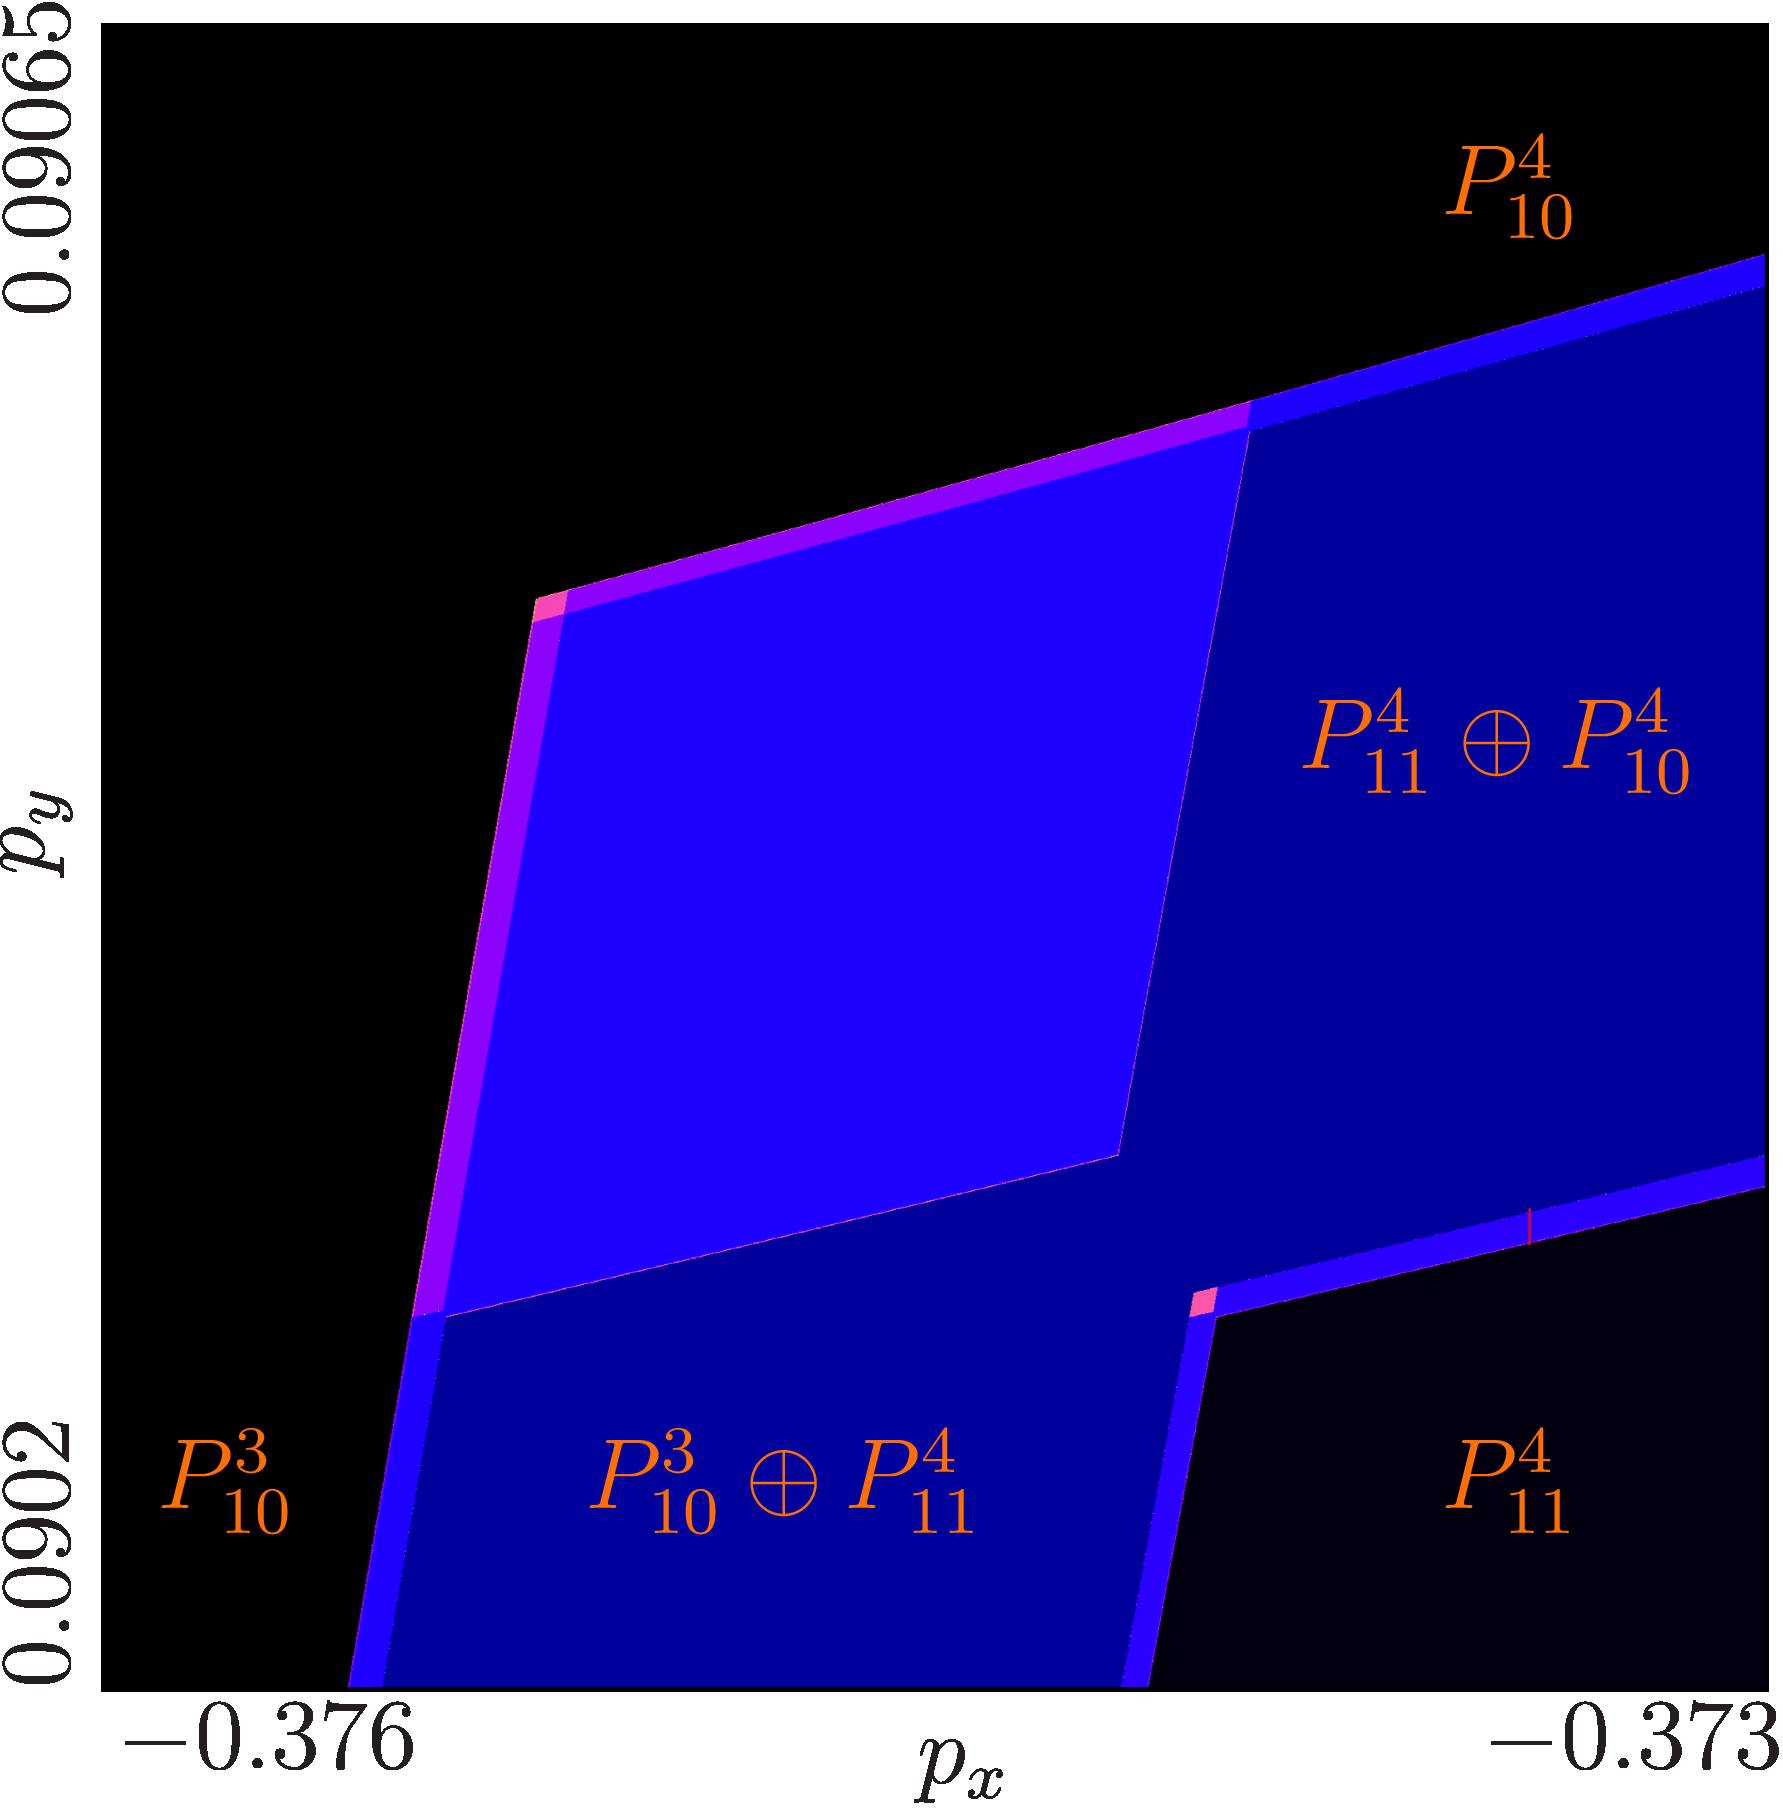
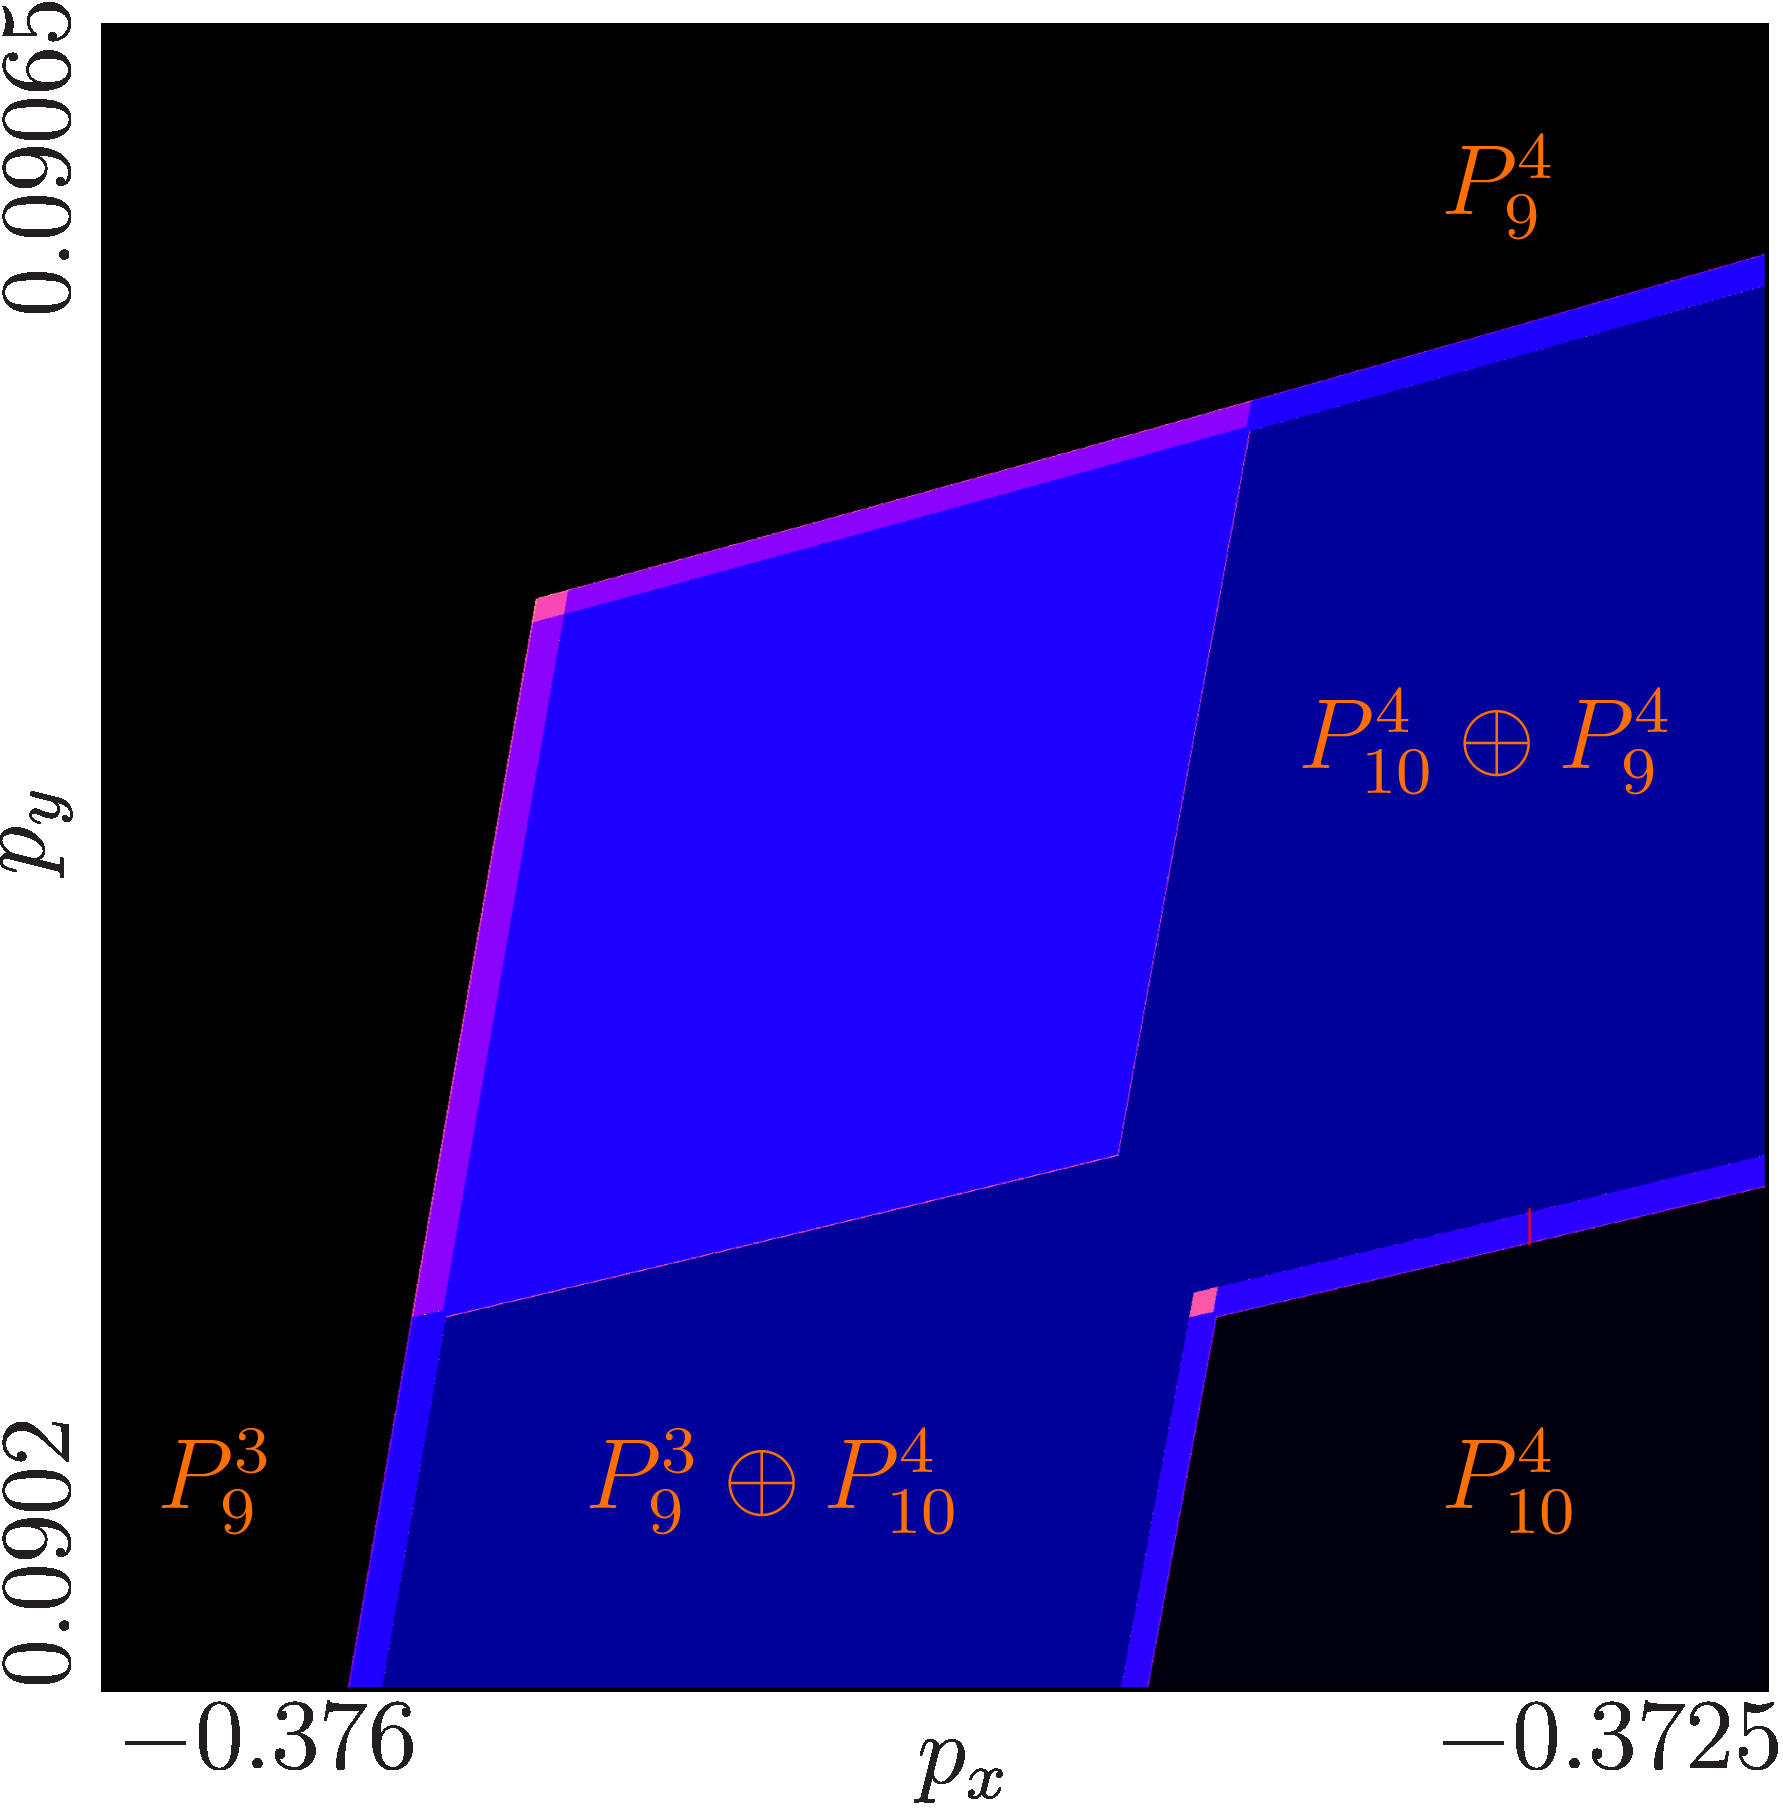
write about what happens when

diff --git a/Report/Sections/70_Adding/15_0_halved_motivation.tex b/Report/Sections/70_Adding/15_0_halved_motivation.tex
@@ -9,7 +9,11 @@
     \subfloat[The halved model]{
         \includegraphics[width=.4 \textwidth]{63_MinimalRepr_Adding_Halved/2D_Period_1_Zoomed/result.png}
     }
-    \caption{2D period scans of the same model in two versions}
+    \caption{
+        2D period scans of a period adding regions of the same model in two different versions.
+        On the left, is the full version of the model and on the right, is the halved version of the model.
+        The red markers between the regions $P_{10}^4$ and $P_{10}^4 \oplus P_9^4$ in both pictures, is the parameter range used for the 1D scans in \Cref{fig:minrep.adding1.motivation.halved.1d.period}.
+    }
     \label{fig:minrep.adding1.corner.period}
 \end{figure}
 
@@ -22,7 +26,12 @@
     \subfloat[The halved model]{
         \includegraphics[width=.4 \textwidth]{63_MinimalRepr_Adding_Halved/1D_Period_1_add_hor_D1/result.png}
     }
-    \caption{1D period scans of the same model in two different versions. The parameter range is marked red in \Cref{fig:minrep.adding1.corner.period}}
+    \caption{
+        1D period scans of a period-adding cascade of the same model in two different versions.
+        On the left, is the full version of the model and on the right, is the halved version of the model.
+        The parameter range is the same in both models and is marked red in \Cref{fig:minrep.adding1.corner.period}.
+    }
+    \label{fig:minrep.adding1.motivation.halved.1d.period}
 \end{figure}
 
 Problems with \Cref{fig:minrep.adding1.motivation.halved.1d.period.full}:
@@ -45,20 +54,20 @@ This cycle manifests as $\sigma\rho = \A^5\B^4\C^6\D^4\A^6\B^4\C^5\D^4\A^6\B^4\C
 We can get the manifestation of a cycle from the halved system in the full system by ``unrolling'' the cycle.
 For this, we write down the cycle of the halved model three times in a row.
 For our cycle $\sigma\rho$ this would be $\L^6\R^4\L^6\R^4\L^5\R^4|\L^6\R^4\L^6\R^4\L^5\R^4|\L^6\R^4\L^6\R^4\L^5\R^4$.
-Then we make pairs on rotations until the next pair would start at the same point, the fisrt pair started in the original cycle.
+Then we make pairs on rotations until the next pair would start at the same point, the first pair started in the original cycle.
 This step has to be repeated with every rotation of the original cycle as the starting position once.
 For the first iteration, we start with the first rotation.
 In our example, we would get the pairs $\L^6\R^4\L^6\R^4$, $\L^5\R^4\L^6\R^5$, and $\L^6\R^4\L^5\R^4$.
 Here we stop, because the next pair would start at the beginning of the original cycle in the halved model.
 For each pair, we replace the first $\L$ by $\A$, the first $\R$ by $\B$, the second $\L$ by $\C$, and the second $\R$ by $\D$ and put them toghether again.
-In our example we get $\A^6\B^4\C^6\D^4\A^5\B^4\C^6\D^4\A^6\B^4\C^5\D^4$, which is exactly what we got in the simulation.
+In our example, we get $\A^6\B^4\C^6\D^4\A^5\B^4\C^6\D^4\A^6\B^4\C^5\D^4$, which is exactly what we got in the simulation.
 
 For the second iteration, we would get the pairs $\L^6\R^4\L^5\R^4$, $\L^6\R^4\L^6\R^4$, and $\L^5\R^4\L^6\R^4$.
 This results in $\A^6\B^4\C^5\D^4\A^6\B^4\C^6\D^4\A^5\B^4\C^6\D^4$, which is equivalent to the result of the last paragraph by rotating it one complete rotation in the full model.
 The third iteration also produces the same cycle rotated one time and is omitted here.
 
 The inverse, ``rolling'' is easier.
-We just write down the cycle in the full model, for example $\A^6\B^4\C^6\D^4$.
+We just write down the cycle in the full model, for example, $\A^6\B^4\C^6\D^4$.
 Then we replace $\A$ and $\C$ by $\L$, and $\B$ and $\D$ by $\R$.
 In our example, we get $\L^6\R^4\L^6\R^4$.
 Last, we need to remove redundancy.
@@ -68,7 +77,7 @@ In our example, the cycle repeats itself twice, so we remove one half and get th
 
 Now equipped with this tool, we can try to explain the cycle at $\sigma^2\rho$.
 \todo{
-1.        halved model adding
-2.        calculate manifestation
-3.        show it agrees with the observed reality
+    1. halved model adding
+    2. calculate manifestation
+    3. show it agrees with the observed reality
 }

diff --git a/Report/Sections/70_Adding/10_between_chains.tex b/Report/Sections/70_Adding/10_between_chains.tex
@@ -27,6 +27,32 @@ The meaning of these is explored in a later section, the next section will focus
     \label{fig:minrep.adding1.overview}
 \end{figure}
 
-\input{Sections/70_Adding/10_0_halved_motivation.tex}
+\subsubsection{What Happens on the Path to Period-adding?}
+
+\begin{enumerate}
+    \item \begin{itemize}
+              \item ``type A'' parameter regions stop overlapping with the ``type A'' period regions above them (lower period, same number of points on branches $f_\B$ and $f_\D$)
+              \item Point where boundaries cross. On the left: no overlap, period-adding. On the right: overlap
+              \item This point moves right, until no overlap exists anymore
+          \end{itemize}
+    \item \begin{itemize}
+              \item ``type A'' parameter regions start overlapping with the ``type A'' period regions above right them (same period)
+              \item Point where boundaries cross. On the left: overlap. On the right: no overlap, ``type B'' parameter region
+              \item This point moves right, until no ``type B'' parameter region exists anymore
+          \end{itemize}
+    \item \begin{itemize}
+              \item ``type A'' parameter regions stop overlapping with the ``type A'' parameter regions right to them (higher period, one more point on branches $f_\B$ and $f_\D$)
+              \item This seems to happen in an instant
+          \end{itemize}
+\end{enumerate}
+
+Timeline:
+On the parameter line outlined above, the processes happen as follows.
+First, the process (i) starts.
+While it is happening, the process (ii) starts and finishes, before (i) finishes.
+Lastly the process (iii) starts and finishes directly.
+After all that, process (i) is the last to complete.
+
 \input{Sections/70_Adding/11_disapp_b.tex}
 \input{Sections/70_Adding/12_app_add.tex}
+\input{Sections/70_Adding/15_0_halved_motivation.tex}
